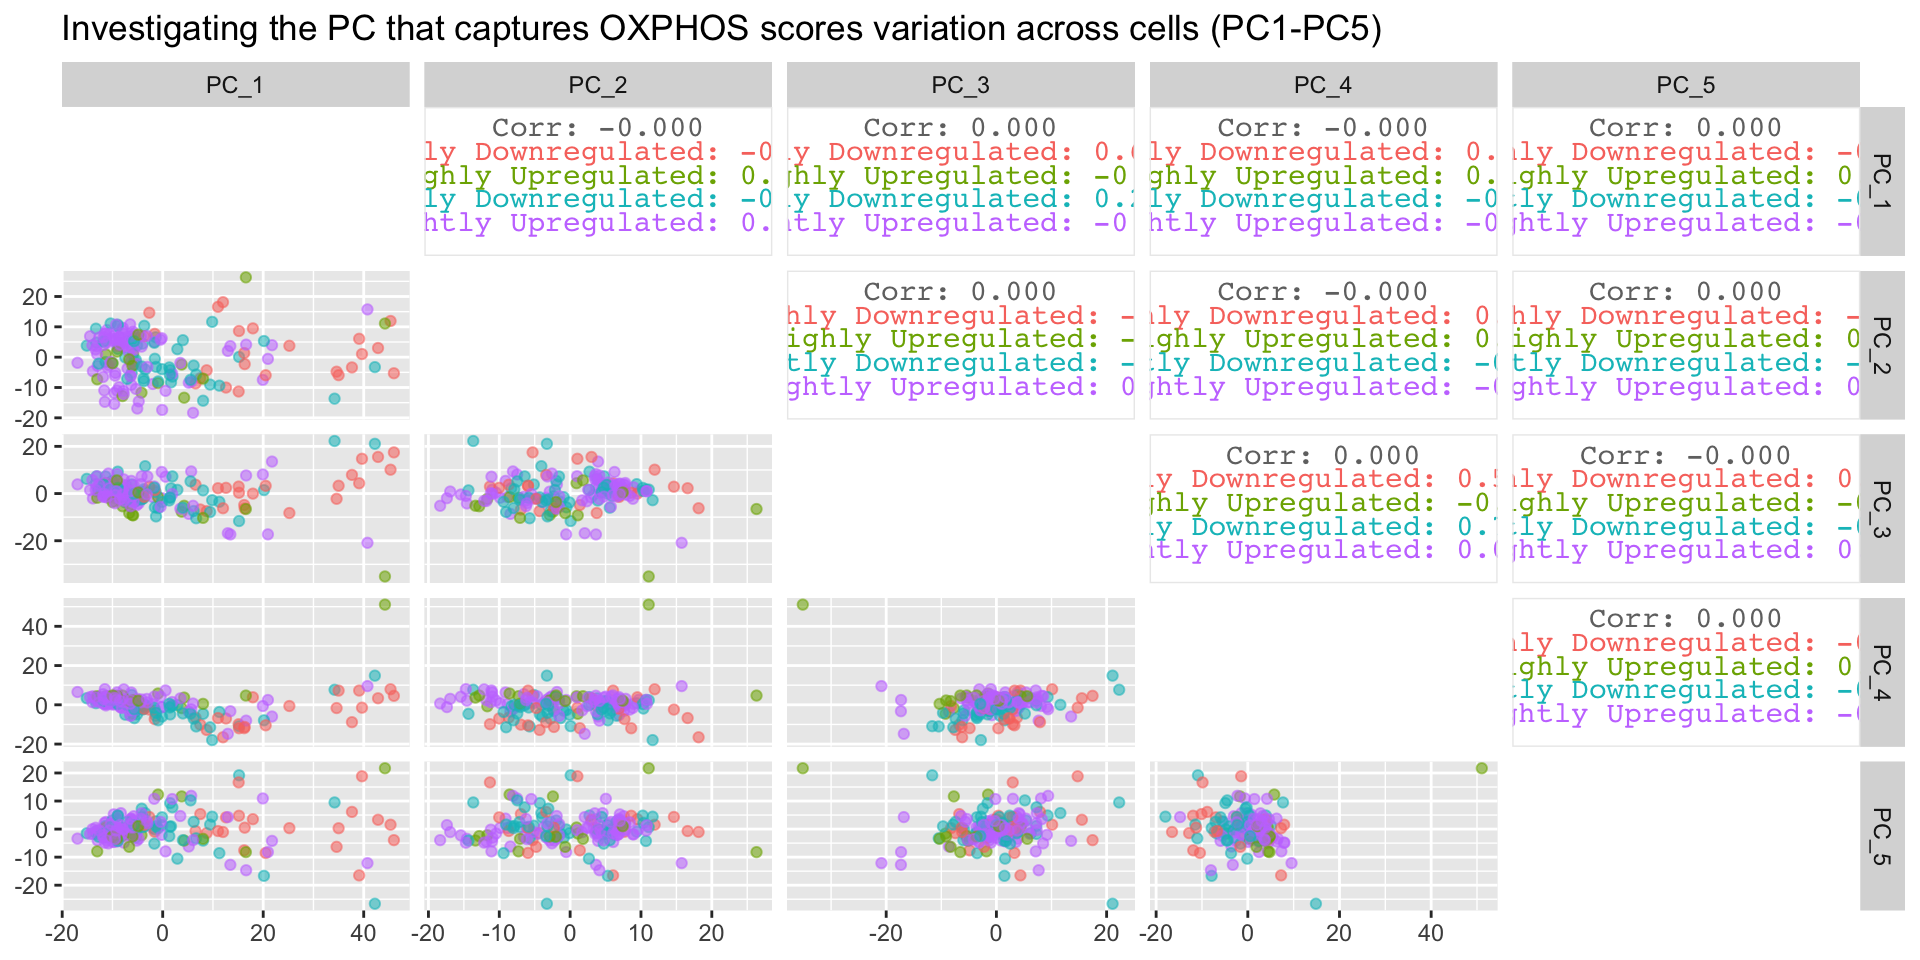
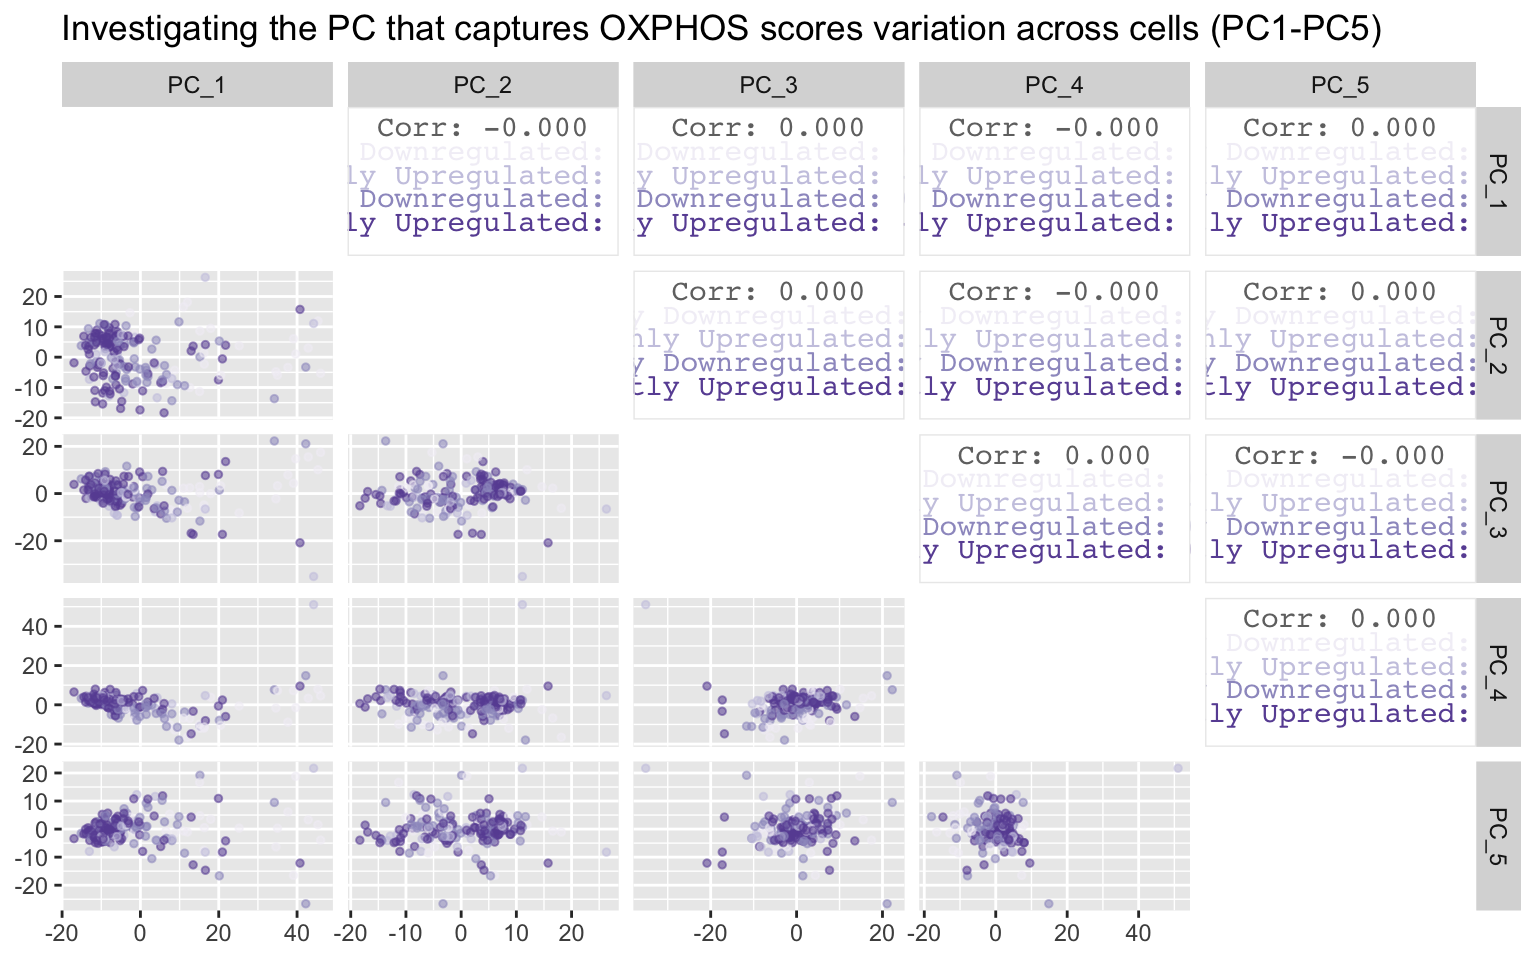
Build site.

diff --git a/docs/02.0_Izar2020_SS2_ExploratoryAnalysis.html b/docs/02.0_Izar2020_SS2_ExploratoryAnalysis.html
@@ -424,7 +424,7 @@ div.tocify {
 <div class="tab-content">
 <div id="summary" class="tab-pane fade in active">
 <p>
-<strong>Last updated:</strong> 2020-08-19
+<strong>Last updated:</strong> 2020-08-21
 </p>
 <p>
 <strong>Checks:</strong> <span class="glyphicon glyphicon-ok text-success" aria-hidden="true"></span> 7 <span class="glyphicon glyphicon-exclamation-sign text-danger" aria-hidden="true"></span> 0
@@ -515,16 +515,16 @@ This reproducible <a href="http://rmarkdown.rstudio.com">R Markdown</a> analysis
 <div class="panel panel-default">
 <div class="panel-heading">
 <p class="panel-title">
-<a data-toggle="collapse" data-parent="#workflowr-checks" href="#strongRepositoryversionstrongahrefhttpsgithubcomjgoh2jesslynovcatree729ebf46e71604f91406a12b0a6c92ad2a832af9targetblank729ebf4a"> <span class="glyphicon glyphicon-ok text-success" aria-hidden="true"></span> <strong>Repository version:</strong> <a href="https://github.com/jgoh2/jesslyn_ovca/tree/729ebf46e71604f91406a12b0a6c92ad2a832af9" target="_blank">729ebf4</a> </a>
+<a data-toggle="collapse" data-parent="#workflowr-checks" href="#strongRepositoryversionstrongahrefhttpsgithubcomjgoh2jesslynovcatree8bfebbe50b24ecd0b3c7468380293f037b5a2046targetblank8bfebbea"> <span class="glyphicon glyphicon-ok text-success" aria-hidden="true"></span> <strong>Repository version:</strong> <a href="https://github.com/jgoh2/jesslyn_ovca/tree/8bfebbe50b24ecd0b3c7468380293f037b5a2046" target="_blank">8bfebbe</a> </a>
 </p>
 </div>
[2 lines of base64/hex data omitted]
 <div class="panel-body">
 <p>
 Great! You are using Git for version control. Tracking code development and connecting the code version to the results is critical for reproducibility.
 </p>
 <p>
-The results in this page were generated with repository version <a href="https://github.com/jgoh2/jesslyn_ovca/tree/729ebf46e71604f91406a12b0a6c92ad2a832af9" target="_blank">729ebf4</a>. See the <em>Past versions</em> tab to see a history of the changes made to the R Markdown and HTML files.
+The results in this page were generated with repository version <a href="https://github.com/jgoh2/jesslyn_ovca/tree/8bfebbe50b24ecd0b3c7468380293f037b5a2046" target="_blank">8bfebbe</a>. See the <em>Past versions</em> tab to see a history of the changes made to the R Markdown and HTML files.
 </p>
 <p>
 Note that you need to be careful to ensure that all relevant files for the analysis have been committed to Git prior to generating the results (you can use <code>wflow_publish</code> or <code>wflow_git_commit</code>). workflowr only checks the R Markdown file, but you know if there are other scripts or data files that it depends on. Below is the status of the Git repository when the results were generated:
@@ -535,7 +535,6 @@ Ignored files:
     Ignored:    .Rhistory
     Ignored:    .Rproj.user/
     Ignored:    analysis/.DS_Store
-    Ignored:    analysis/figure/
     Ignored:    code/.DS_Store
     Ignored:    data/.DS_Store
     Ignored:    data/HTAPP/
@@ -589,6 +588,40 @@ Message
 </tr>
 </thead>
 <tbody>
+<tr>
+<td>
+Rmd
+</td>
+<td>
+<a href="https://github.com/jgoh2/jesslyn_ovca/blob/8bfebbe50b24ecd0b3c7468380293f037b5a2046/analysis/02.0_Izar2020_SS2_ExploratoryAnalysis.Rmd" target="_blank">8bfebbe</a>
+</td>
+<td>
+jgoh2
+</td>
+<td>
+2020-08-21
+</td>
+<td>
+SS2 PCA matrix
+</td>
+</tr>
+<tr>
+<td>
+html
+</td>
+<td>
+<a href="https://rawcdn.githack.com/jgoh2/jesslyn_ovca/2c1accf8a5c21b85e3658190c11441d341d0d635/docs/02.0_Izar2020_SS2_ExploratoryAnalysis.html" target="_blank">2c1accf</a>
+</td>
+<td>
+jgoh2
+</td>
+<td>
+2020-08-19
+</td>
+<td>
+Build site.
+</td>
+</tr>
 <tr>
 <td>
 Rmd
@@ -2088,11 +2121,12 @@ Oxphos.ctg[SS2Malignant.8$GO.OXPHOS35.centered == 0] &lt;- &quot;Not Expressed&q
 Oxphos.ctg[SS2Malignant.8$GO.OXPHOS35.centered &gt; -0.25 &amp; SS2Malignant.8$GO.OXPHOS35.centered &lt; 0] &lt;- &quot;Slightly Downregulated&quot;
 Oxphos.ctg[SS2Malignant.8$GO.OXPHOS35.centered &lt; -0.25] &lt;- &quot;Highly Downregulated&quot;
 
-p1 &lt;- ggpairs(P8.PCA.cells, columns = c(&quot;PC_1&quot;, &quot;PC_2&quot;, &quot;PC_3&quot;, &quot;PC_4&quot;, &quot;PC_5&quot;), diag = &quot;blank&quot;, mapping = aes(alpha = 0.3, colour = Oxphos.ctg)) + 
+p1 &lt;- ggpairs(P8.PCA.cells, columns = c(&quot;PC_1&quot;, &quot;PC_2&quot;, &quot;PC_3&quot;, &quot;PC_4&quot;, &quot;PC_5&quot;), diag = &quot;blank&quot;, lower = list(continuous = wrap(&quot;points&quot;, size = 1)), mapping = aes(alpha = 0.7, colour = Oxphos.ctg)) +
+  scale_color_brewer(palette=&quot;Purples&quot;, guide = &quot;legend&quot;) +
   labs(title = &quot;Investigating the PC that captures OXPHOS scores variation across cells (PC1-PC5)&quot;)
 
 p1</code></pre>
-<p><img src="figure/02.0_Izar2020_SS2_ExploratoryAnalysis.Rmd/PC-1.png" width="960" style="display: block; margin: auto;" /></p>
+<p><img src="figure/02.0_Izar2020_SS2_ExploratoryAnalysis.Rmd/PC-1.png" width="768" style="display: block; margin: auto;" /></p>
 <p>
 <button type="button" class="btn btn-default btn-xs btn-workflowr btn-workflowr-fig" data-toggle="collapse" data-target="#fig-PC-1">
 Past versions of PC-1.png
@@ -2117,6 +2151,17 @@ Date
 <tbody>
 <tr>
 <td>
+<a href="https://github.com/jgoh2/jesslyn_ovca/blob/2c1accf8a5c21b85e3658190c11441d341d0d635/docs/figure/02.0_Izar2020_SS2_ExploratoryAnalysis.Rmd/PC-1.png" target="_blank">2c1accf</a>
+</td>
+<td>
+jgoh2
+</td>
+<td>
+2020-08-19
+</td>
+</tr>
+<tr>
+<td>
 <a href="https://github.com/jgoh2/jesslyn_ovca/blob/a3ddf5426a00200791376a7aca6df663ea19f7ef/docs/figure/02.0_Izar2020_SS2_ExploratoryAnalysis.Rmd/PC-1.png" target="_blank">a3ddf54</a>
 </td>
 <td>
@@ -2130,11 +2175,12 @@ jgoh2
 </table>
 </div>
 </div>
-<pre class="r"><code>p2 &lt;- ggpairs(P8.PCA.cells, columns = c(&quot;PC_6&quot;, &quot;PC_7&quot;, &quot;PC_8&quot;, &quot;PC_9&quot;, &quot;PC_10&quot;), diag = &quot;blank&quot;, mapping = aes(alpha = 0.3, colour = Oxphos.ctg)) + 
+<pre class="r"><code>p2 &lt;- ggpairs(P8.PCA.cells, columns = c(&quot;PC_6&quot;, &quot;PC_7&quot;, &quot;PC_8&quot;, &quot;PC_9&quot;, &quot;PC_10&quot;), diag = &quot;blank&quot;, lower = list(continuous = wrap(&quot;points&quot;, size = 1)), mapping = aes(alpha = 0.7, colour = Oxphos.ctg)) +
+  scale_color_brewer(palette=&quot;Purples&quot;, guide = &quot;legend&quot;) +
   labs(title = &quot;Investigating the PC that captures OXPHOS scores variation across cells (PC6-PC10)&quot;)
 
 p2</code></pre>
-<p><img src="figure/02.0_Izar2020_SS2_ExploratoryAnalysis.Rmd/PC-2.png" width="960" style="display: block; margin: auto;" /></p>
+<p><img src="figure/02.0_Izar2020_SS2_ExploratoryAnalysis.Rmd/PC-2.png" width="768" style="display: block; margin: auto;" /></p>
 <p>
 <button type="button" class="btn btn-default btn-xs btn-workflowr btn-workflowr-fig" data-toggle="collapse" data-target="#fig-PC-2">
 Past versions of PC-2.png
@@ -2157,6 +2203,17 @@ Date
 </tr>
 </thead>
 <tbody>
+<tr>
+<td>
+<a href="https://github.com/jgoh2/jesslyn_ovca/blob/2c1accf8a5c21b85e3658190c11441d341d0d635/docs/figure/02.0_Izar2020_SS2_ExploratoryAnalysis.Rmd/PC-2.png" target="_blank">2c1accf</a>
+</td>
+<td>
+jgoh2
+</td>
+<td>
+2020-08-19
+</td>
+</tr>
 <tr>
 <td>
 <a href="https://github.com/jgoh2/jesslyn_ovca/blob/a3ddf5426a00200791376a7aca6df663ea19f7ef/docs/figure/02.0_Izar2020_SS2_ExploratoryAnalysis.Rmd/PC-2.png" target="_blank">a3ddf54</a>
